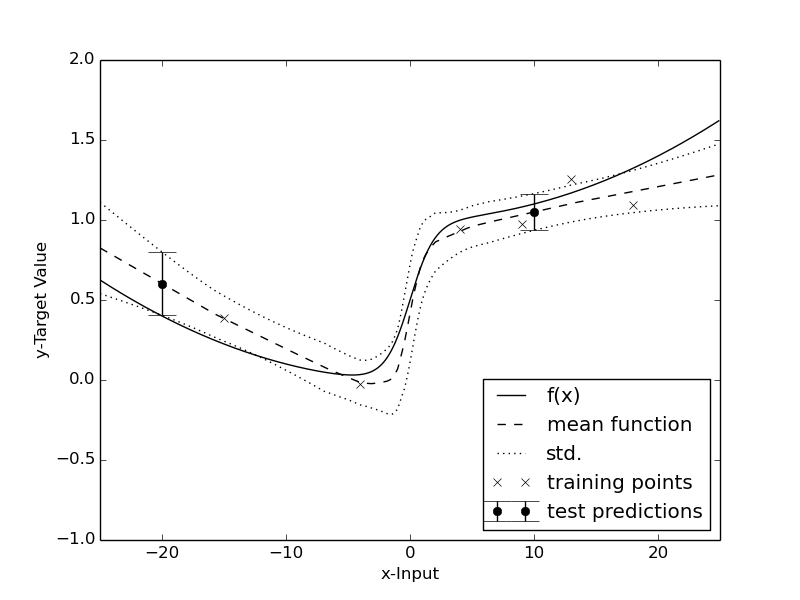
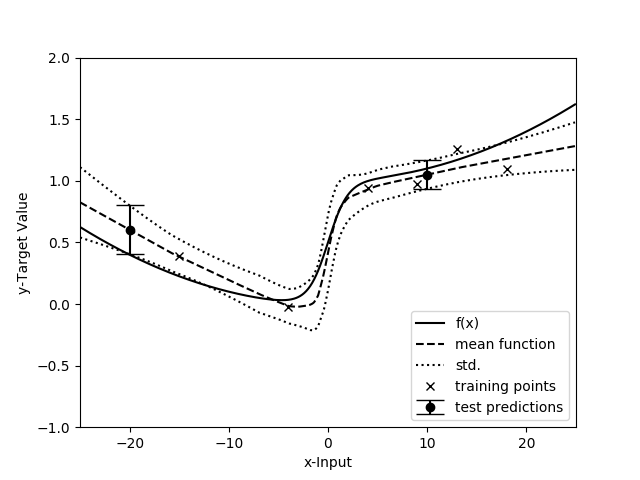
update BNN, use one layer instead of three

diff --git a/regression_with_BNN.py b/regression_with_BNN.py
@@ -43,10 +43,8 @@ def main():
 
     # Variational Inference Approximation of Gaussian Process
     bnn = BayesianNeuralNetwork(neurons_hidden_layer=100, initializer='normal', sigma_observation_noise=0.1,
-                                sigma_w1=0.05, sigma_b1=0.05,
-                                sigma_w2=0.05, sigma_b2=0.05,
-                                sigma_w3=0.05, sigma_b3=0.05,
-                                sigma_w4=0.05)
+                                sigma_w1=0.01, sigma_b1=0.01,
+                                sigma_w2=0.02)
     bnn.train(x_train, y_train, train_steps=20000)
 
     # calculate mean and variance function
